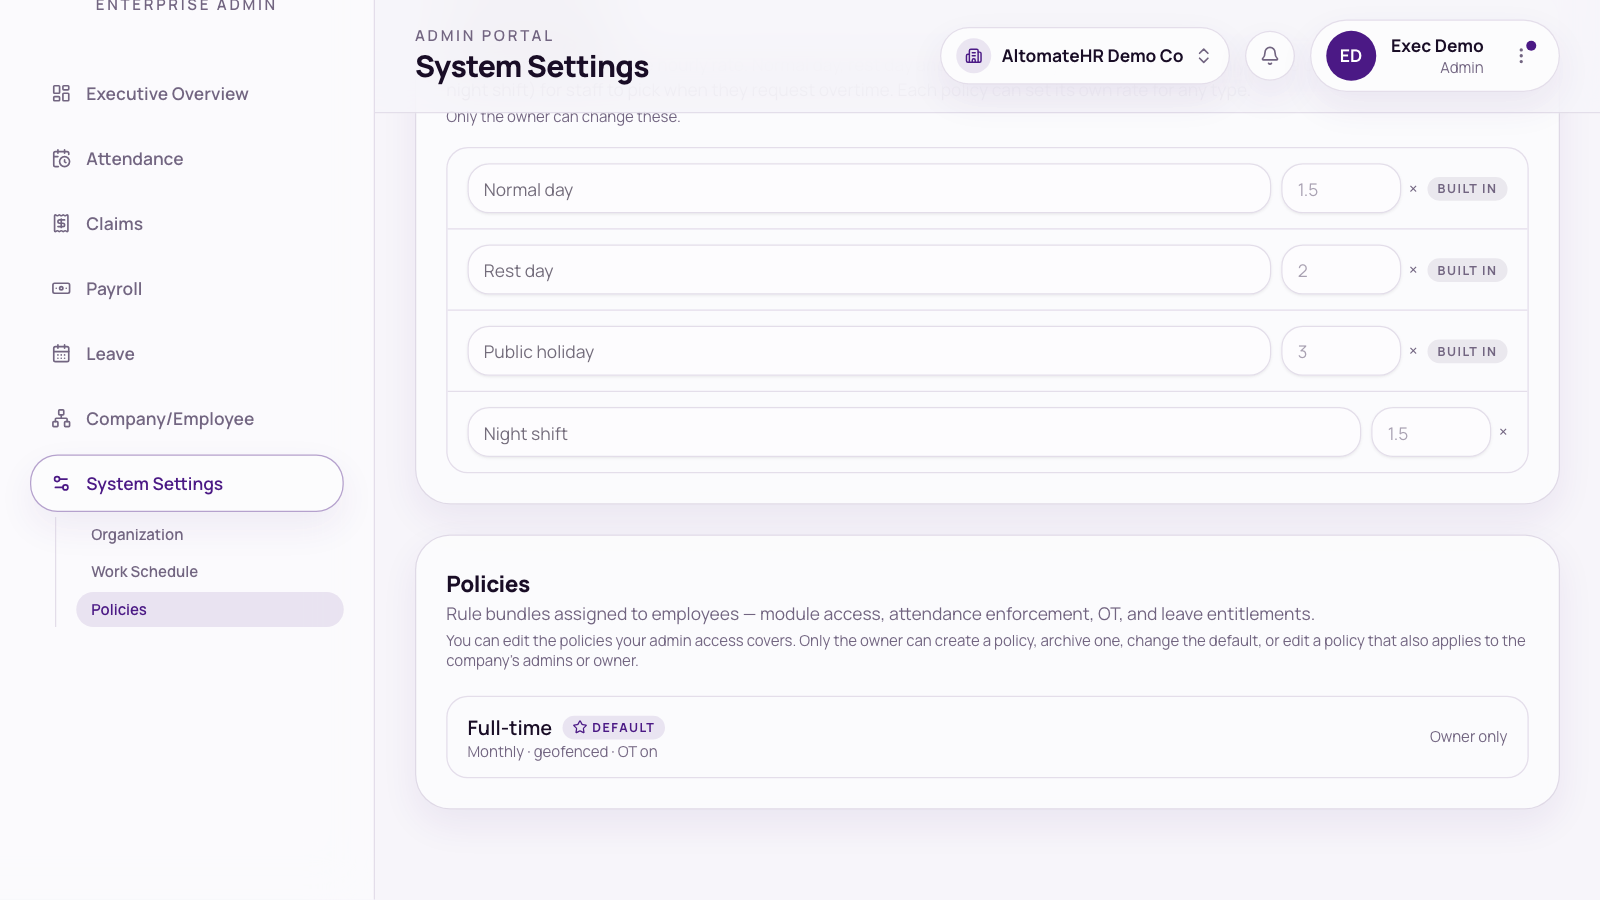
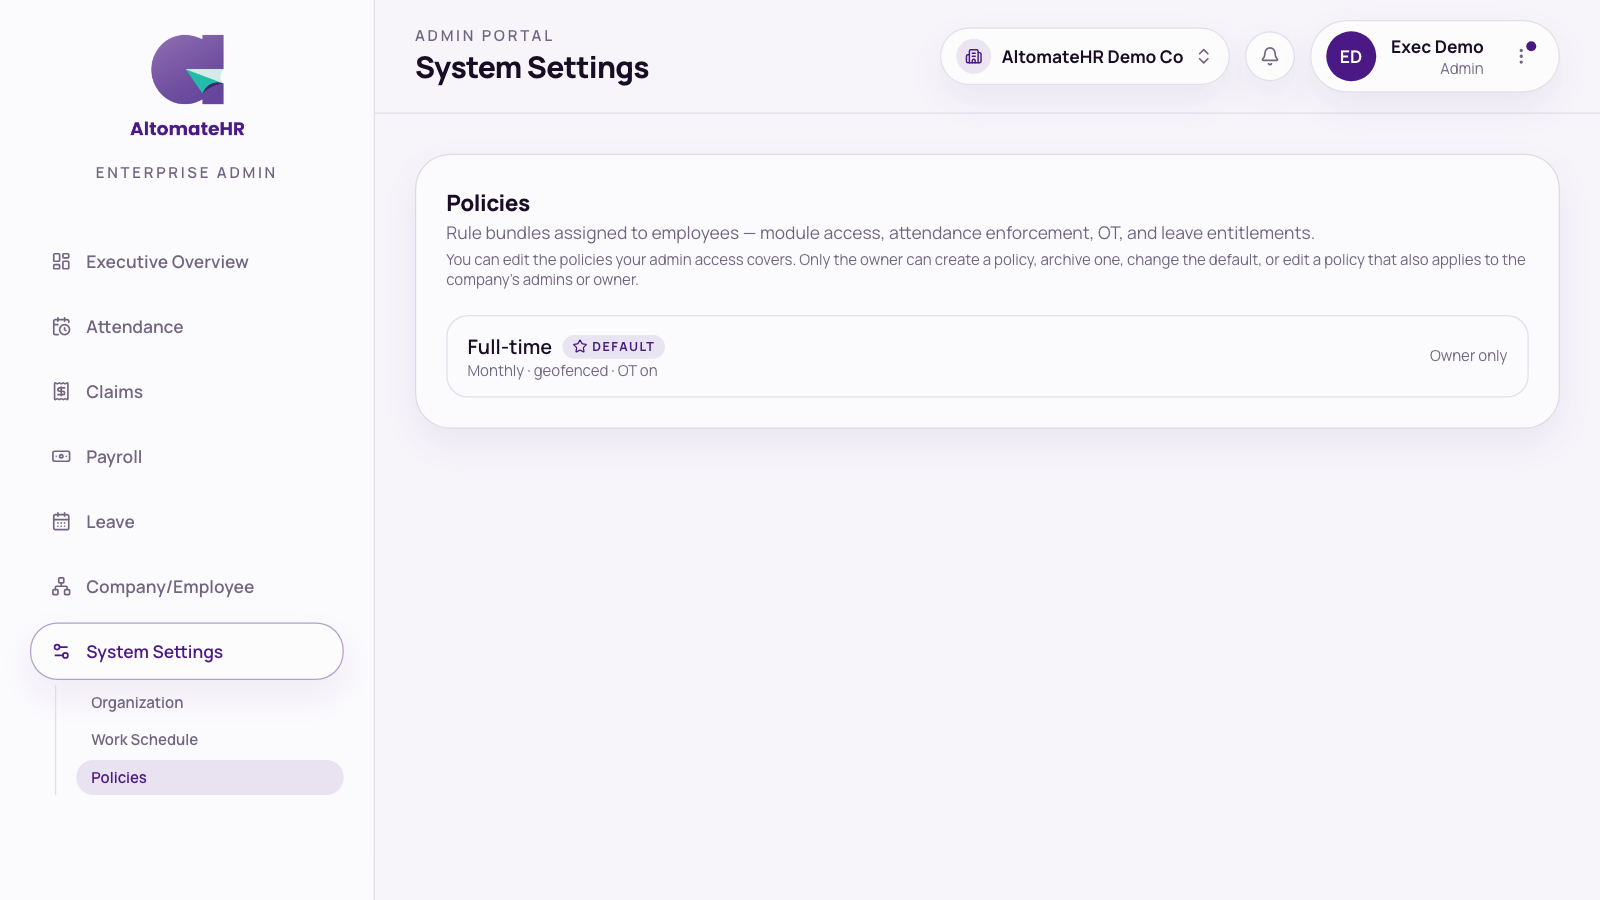
docs: user guide and What's new for Overtime types under Work Schedule

diff --git a/user-guide/altomatehr-admin-guide.html b/user-guide/altomatehr-admin-guide.html
@@ -7,7 +7,7 @@
   Bookmark: this page is correct as of this commit on main. The next update
   re-checks every user-visible change after it — from any branch — then
   moves it forward.
-  user-guide-covered-up-to: 530c662
+  user-guide-covered-up-to: 28f436f
 -->
 <html lang="en">
 <head>
@@ -551,7 +551,20 @@
       <li><h4>Work Schedule</h4>
         <p>The company's default hours and working days, and the <strong>public holidays</strong> —
           pick a <strong>Country</strong> and <strong>Year</strong> and press <span class="btn-name">Import</span>, then add
-          or remove any by hand. The calendar shows working days, rest days and holidays at a glance.</p></li>
+          or remove any by hand. The calendar shows working days, rest days and holidays at a glance.</p>
+        <p><strong>Overtime types.</strong> Below the calendar is an <strong>Overtime types</strong> card: what overtime pays, as a multiple of the hourly
+          rate (for example <em>1.5 ×</em>). Three types come with every company, tagged <strong>Built in</strong>:
+          <strong>Normal day</strong>, <strong>Rest day</strong> and <strong>Public holiday</strong>. Approved overtime
+          lands in one of them on its own, by the calendar. You can rename them and change their rate, but not remove
+          them.</p>
+        <ul>
+          <li><strong>Change one</strong> — edit the name or the number, then press <span class="btn-name">Save</span>
+            beside it.</li>
+          <li><strong>Add your own</strong> (for example <em>Night shift</em>) — type the name and the rate in the last
+            row, then press <span class="btn-name">Add</span>. Your employees can pick it when they submit overtime.</li>
+          <li><strong>Remove one of your own</strong> with the bin button. Hours already approved for it are still paid.</li>
+          <li>Only the owner can change this card. An admin sees it greyed out with a note saying so.</li>
+        </ul></li>
       <li><h4>Policies</h4>
         <p>Reusable rules you assign to people instead of setting each one individually: which modules they
           can use, the attendance checks (geofence, IP allowlist, capturing location, auto clock-out), salary type,
@@ -564,21 +577,8 @@
           owner sees <span class="btn-name">New policy</span>, <span class="btn-name">Make default</span> and
           <span class="btn-name">Archive</span> / <span class="btn-name">Restore</span>; an admin sees a short note
           saying so.</p>
-        <p><strong>Overtime types.</strong> The page starts with an <strong>Overtime types</strong> card: what overtime pays, as a multiple of the hourly
-          rate (for example <em>1.5 ×</em>). Three types come with every company, tagged <strong>Built in</strong>:
-          <strong>Normal day</strong>, <strong>Rest day</strong> and <strong>Public holiday</strong>. Approved overtime
-          lands in one of them on its own, by the calendar. You can rename them and change their rate, but not remove
-          them.</p>
-        <ul>
-          <li><strong>Change one</strong> — edit the name or the number, then press <span class="btn-name">Save</span>
-            beside it.</li>
-          <li><strong>Add your own</strong> (for example <em>Night shift</em>) — type the name and the rate in the last
-            row, then press <span class="btn-name">Add</span>. Your employees can pick it when they submit overtime.</li>
-          <li><strong>Remove one of your own</strong> with the bin button. Hours already approved for it are still paid.</li>
-          <li>Only the owner can change this card. An admin sees it greyed out with a note saying so.</li>
-        </ul>
         <p><strong>Overtime rates in a policy.</strong> In a policy's editor, once <strong>Overtime enabled</strong> is ticked and the <strong>Overtime method</strong> is <em>Cash (paid out)</em>, the rate boxes appear. A box left <strong>blank</strong> uses
-          the company's rate from the Overtime types card, which shows greyed inside the box. Type a number to give just
+          the company's rate from the <strong>Overtime types</strong> card (<strong>System Settings → Work Schedule</strong>), which shows greyed inside the box. Type a number to give just
           this policy its own rate. If your company has its own types, they're listed underneath with a tick:
           untick one to stop that policy's staff picking it, or type a rate to pay it differently. (The two <em>in shift</em> rates that used to be here are gone.)</p></li>
       <li><h4>Admins <span class="badge owner">Owner only</span></h4>
@@ -661,15 +661,19 @@
           <p class="shot-cap">Work Schedule</p>
         </div>
         <div class="shot-item">
-          <img src="shots/admin/policy-editor.png" alt="System Settings → Policies starting with the Overtime types card: Normal day, Rest day and Public holiday marked Built in, a Night shift type of the company's own, and a row to add a new one" loading="lazy">
-          <p class="shot-cap">Overtime types</p>
+          <img src="shots/admin/overtime-types.png" alt="System Settings → Work Schedule, the Overtime types card below the calendar: Normal day, Rest day and Public holiday marked Built in, a Night shift type of the company's own, and a row to add a new one" loading="lazy">
+          <p class="shot-cap">Overtime types (Work Schedule)</p>
+        </div>
+        <div class="shot-item">
+          <img src="shots/admin/policy-editor.png" alt="System Settings → Policies: the list of policies with the Default tag, a New policy button, and Edit, Make default and Archive on each row" loading="lazy">
+          <p class="shot-cap">Policies</p>
         </div>
         <div class="shot-item">
           <img src="shots/admin/policy-overtime-rates.png" alt="The Edit policy dialog's overtime section: blank rate boxes showing the company's rates greyed, and a ticked Night shift type with its own rate box" loading="lazy">
           <p class="shot-cap">Overtime rates in a policy</p>
         </div>
         <div class="shot-item">
-          <img src="shots/admin/policies-limited.png" alt="System Settings → Policies as an admin limited to one policy: the Overtime types card marked owner only, no New policy button, and a note that only the owner can create, archive or change the default" loading="lazy">
+          <img src="shots/admin/policies-limited.png" alt="System Settings → Policies as an admin limited to one policy: that one policy marked Owner only, no New policy button, and a note that only the owner can create, archive or change the default" loading="lazy">
           <p class="shot-cap">Policies, as a limited admin</p>
         </div>
       </div>

diff --git a/frontend/src/features/whats-new/lib/entries.ts b/frontend/src/features/whats-new/lib/entries.ts
@@ -8,7 +8,7 @@
 //
 // Bookmark: the last commit on main these notes already cover. The next update
 // writes up everything after it — from any branch — then moves it forward.
-// whats-new-covered-up-to: 6c03895
+// whats-new-covered-up-to: 28f436f
 
 // A line is for everyone, or — wrapped in admins(…) — for admins and owners
 // only. Employees and supervisors never see an admins line, so it doesn't

diff --git a/user-guide/altomatehr-employee-guide.html b/user-guide/altomatehr-employee-guide.html
@@ -7,7 +7,7 @@
   Bookmark: this page is correct as of this commit on main. The next update
   re-checks every user-visible change after it — from any branch — then
   moves it forward.
-  user-guide-covered-up-to: 530c662
+  user-guide-covered-up-to: 28f436f
 -->
 <html lang="en">
 <head>
